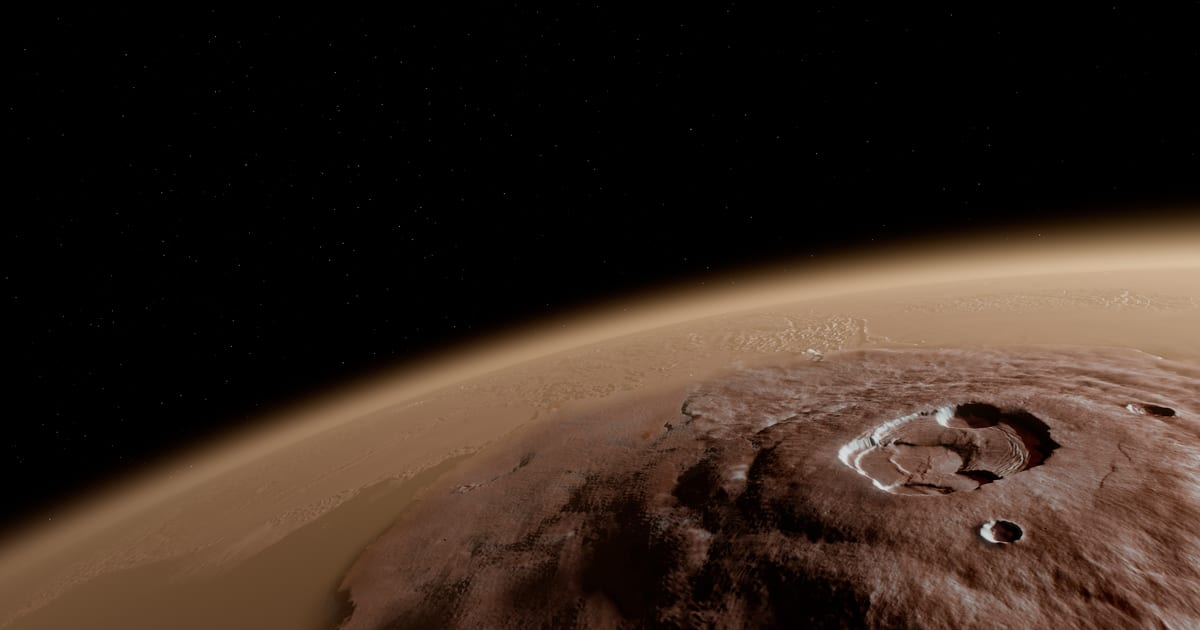
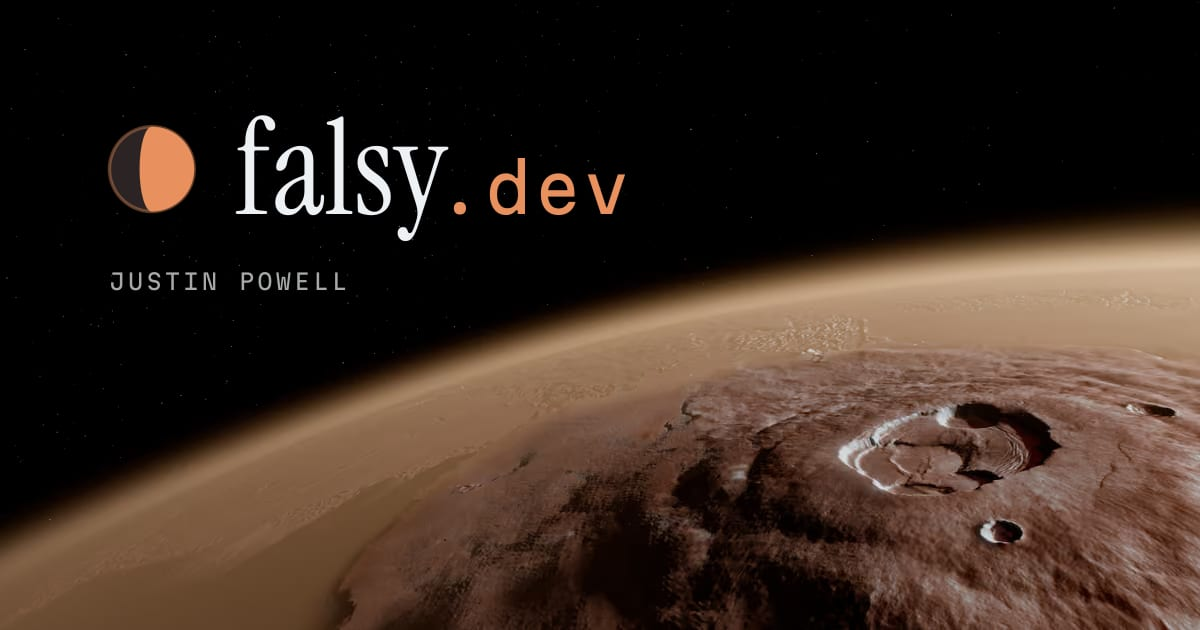
Put the mark and wordmark on the share image
og.jpg keeps the Olympus Mons frame and adds the terminator mark, the
wordmark, and the name over its sky. The text is outlined from the site
fonts, so the poster job renders it without fonts installed. The share URL
carries the image's hash, so link previews pick up a new image. The header's
.dev now sits as close to the name as it does on the image.

Claude-Session: https://claude.ai/code/session_017mbK96rmWzUfpT9HETDPYC

Changed region(s): [[0.0925, 0.181, 0.5242, 0.3921], [0.0925, 0.4222, 0.2775, 0.4825]]

diff --git a/scripts/posters/og-overlay.py b/scripts/posters/og-overlay.py
@@ -1,0 +1,59 @@
+# Builds og-overlay.svg: the mark and wordmark, with text outlined from the site's fonts.
+# Usage: python3 scripts/posters/og-overlay.py node_modules > scripts/posters/og-overlay.svg (needs fonttools, brotli)
+import sys
+from fontTools.ttLib import TTFont
+from fontTools.varLib.instancer import instantiateVariableFont
+from fontTools.pens.svgPathPen import SVGPathPen
+from fontTools.pens.transformPen import TransformPen
+
+nm = sys.argv[1]
+serif = TTFont(f"{nm}/@fontsource/instrument-serif/files/instrument-serif-latin-400-normal.woff2")
+mono = instantiateVariableFont(
+    TTFont(f"{nm}/@fontsource-variable/martian-mono/files/martian-mono-latin-wght-normal.woff2"), {"wght": 400}
+)
+
+
+def outline(font, text, size, x, y, tracking=0.0):
+    s = size / font["head"].unitsPerEm
+    glyphs = font.getGlyphSet()
+    cmap = font.getBestCmap()
+    pen = SVGPathPen(glyphs)
+    for ch in text:
+        g = cmap[ord(ch)]
+        glyphs[g].draw(TransformPen(pen, (s, 0, 0, -s, x, y)))
+        x += glyphs[g].width * s + tracking * size
+    return pen.getCommands(), x
+
+
+W, H = 1200, 630
+ACCENT, INK, NIGHT = "#e8915f", "#eef1f4", "#2c2424"
+left, base, size = 96, 214, 132
+
+# Proportions follow the header: a 22 px mark box beside 26 px type, the disc filling 76% of the box,
+# centred on the serif's line box.
+hhea = serif["hhea"]
+centre = base - (hhea.ascent + hhea.descent) / 2 / serif["head"].unitsPerEm * size
+box = 0.846 * size
+cx = left + box / 2
+r = box / 2 * 0.76
+
+name_d, end = outline(serif, "falsy", size, left + box + 0.2 * size, base)
+tld = size / 2
+# The mono full stop sits mid-cell, so pull it in to read as one word.
+tld_d, _ = outline(mono, ".dev", tld, end - 0.16 * tld, base, tracking=0.04)
+who_d, _ = outline(mono, "JUSTIN POWELL", 22, left + box / 2 - r, base + 76, tracking=0.14)
+
+k = r / 38
+day = (
+    f"M{cx:.2f} {centre - r:.2f}A{r:.2f} {r:.2f} 0 0 1 {cx:.2f} {centre + r:.2f}"
+    f"A{11 * k:.2f} {r:.2f} 0 0 1 {cx:.2f} {centre - r:.2f}Z"
+)
+
+print(f'''<svg xmlns="http://www.w3.org/2000/svg" width="{W}" height="{H}" viewBox="0 0 {W} {H}">
+<circle cx="{cx:.2f}" cy="{centre:.2f}" r="{r:.2f}" fill="{NIGHT}"/>
+<path d="{day}" fill="{ACCENT}"/>
+<circle cx="{cx:.2f}" cy="{centre:.2f}" r="{r:.2f}" fill="none" stroke="{ACCENT}" stroke-opacity=".4" stroke-width="{3 * k:.2f}"/>
+<path d="{name_d}" fill="{INK}"/>
+<path d="{tld_d}" fill="{ACCENT}"/>
+<path d="{who_d}" fill="{INK}" fill-opacity=".7"/>
+</svg>''')
